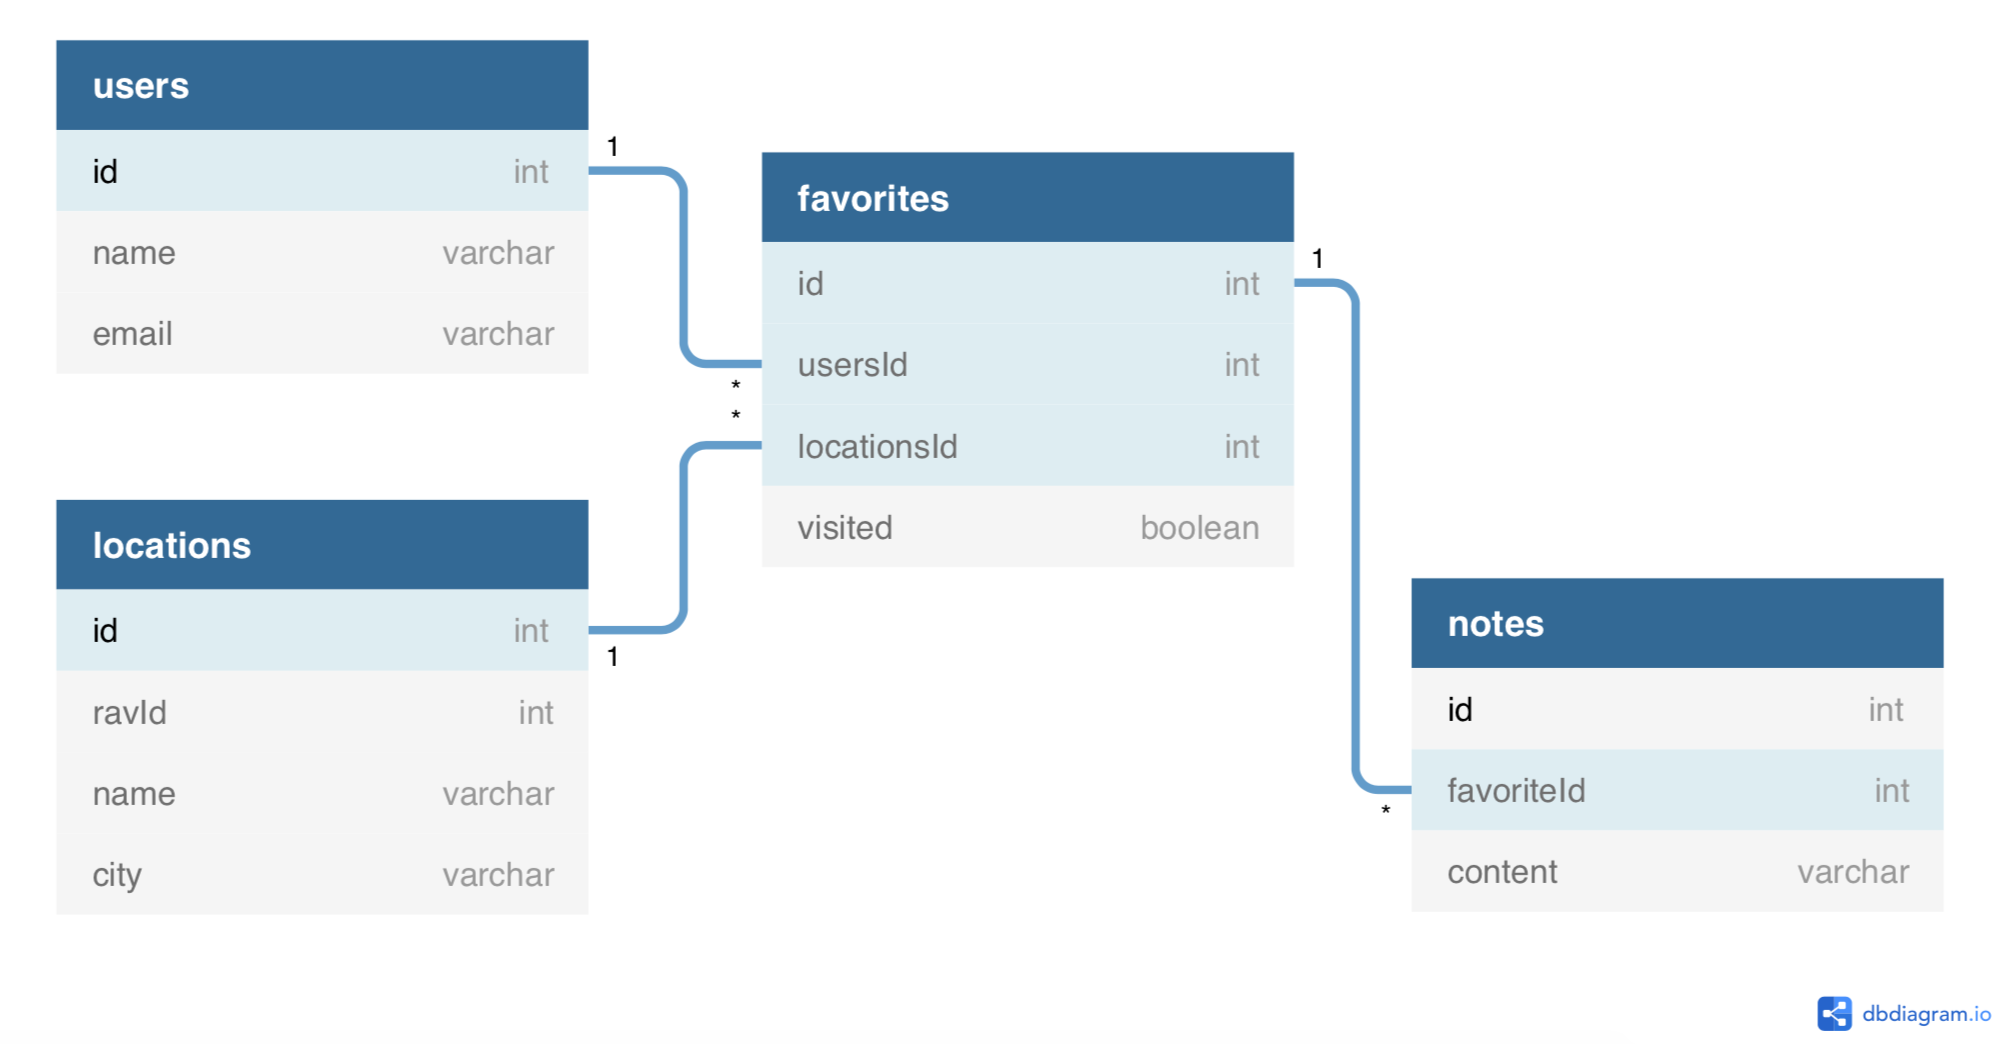
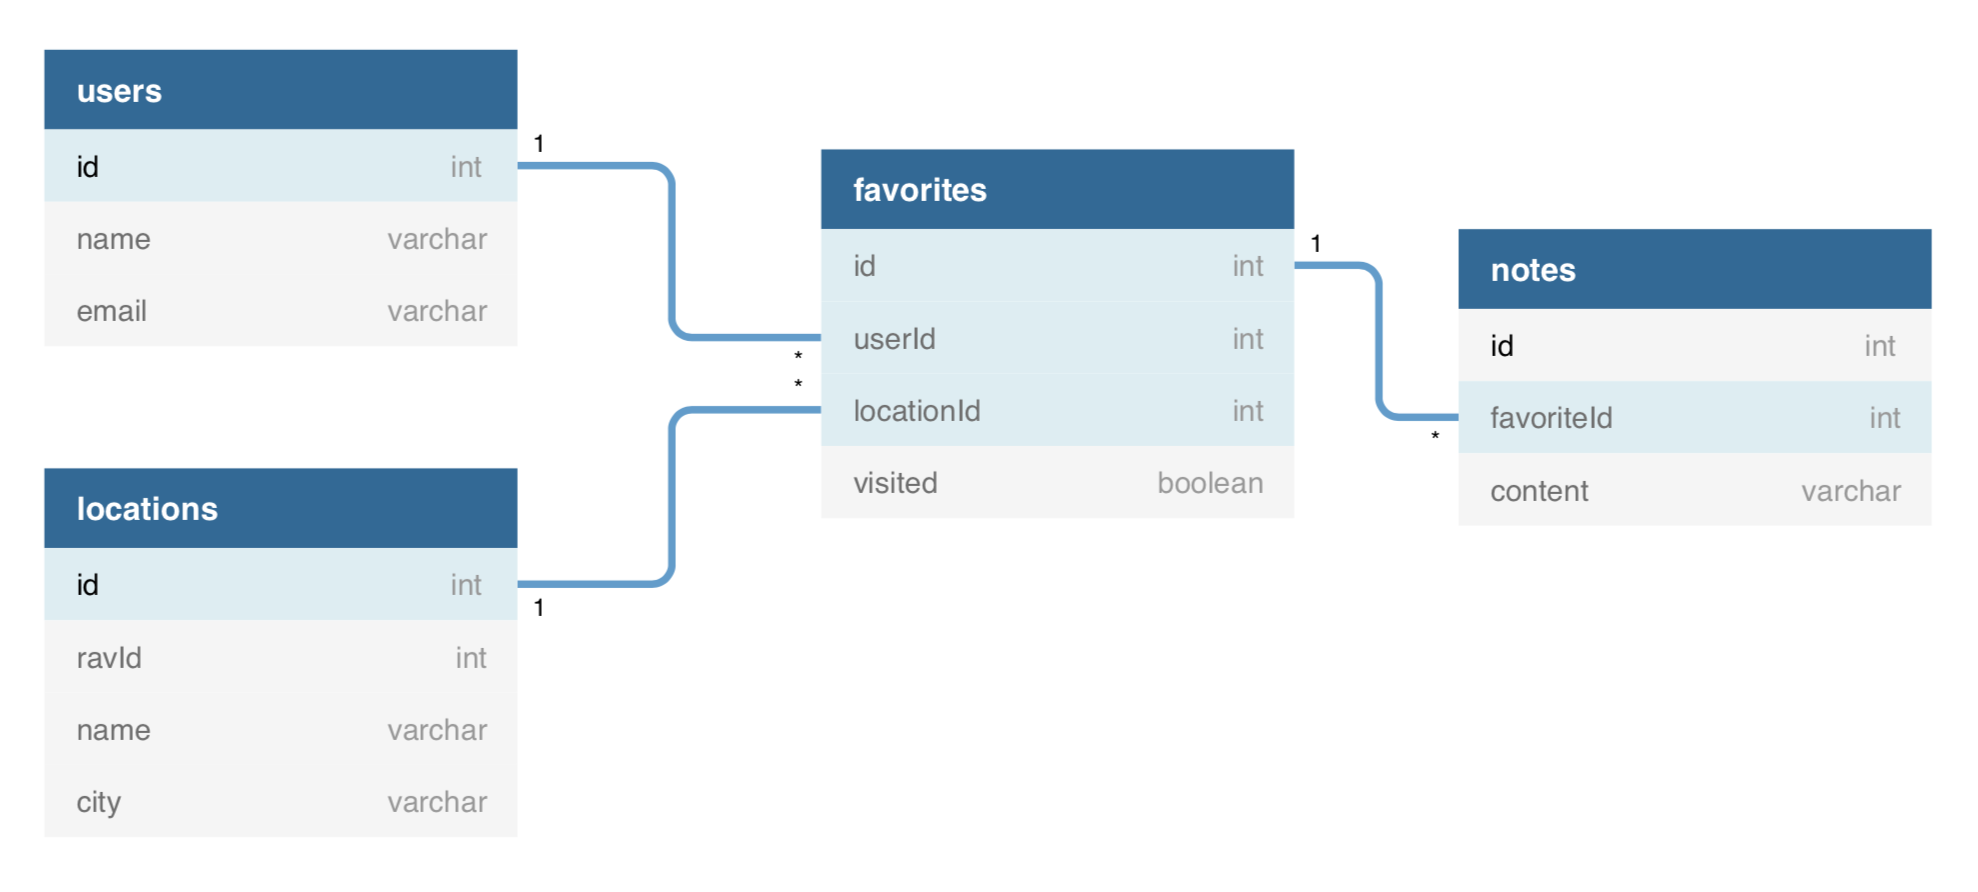
readme and a little cleaning

diff --git a/controllers/profile.js b/controllers/profile.js
@@ -73,7 +73,6 @@ router.post('/add/:id', function (req, res) {
 
 // POST /notes - add note to location record
 router.post('/:id/notes', function (req, res) {
-    //find location
     let ravId = parseInt(req.params.id);
     db.location.findOne({
         where: {ravId: ravId}

diff --git a/README.md b/README.md
@@ -62,11 +62,48 @@ I planned these out after I knew what my models and API data would be.
 | PUT   | `/profile/:id/update` | `mark a store as "visited"` |
 | DELETE| `/profile/:id` | `remove store from user's saved stores` |
 
-## Process
-More information coming soon
+## Thoughts
+
+- I definitely thought I would need more views than I did. I made more than I needed and then pared down once the routes were functional, making sure that if I changed a page I changed the route to render or redirect to the right place.
+
+- clickable points on the map was the most difficult thing to achieve. I looked through the documentation for the Mapbox API, but the parts that I needed to know ended up being in two separate examples in the documentation that needed to be cobbled together.
+
+- JOIN TABLES were not my friend (at first). I chose to link comments by the primary key from my join table (usersLocations). In Sequelize, when you get information directly from a join table it does not send the primary key, so it couldn't find any comments. The first solution was to copy the id information from the migration into the model for my usersLocations table. That allowed me to access the primary key. Then it blew up again. Sequelize turns all model names singular when referencing a primary key, so it turned every "usersLocationsId" into "usersLocationId". The easiest solution was to make a new table with a singular name, include the id information in the model, and try again. Thus, usersLocations became favorites! Suddenly, my route worked! Huzzah!
+
+```js
+router.get('/:id', function (req, res) {
+    let ravId = parseInt(req.params.id)
+    let apiUrl = 'https://api.ravelry.com/shops/' + ravId + '.json?include=schedules'
+    let headers = {
+        'Authorization': 'Basic ' + Buffer.from(`${process.env.APIUSER}:${process.env.APIPASS}`).toString('base64')
+    };
+
+    db.location.findOne({
+        where: {ravId: ravId}
+    }).then( function (location) {
+        db.favorite.findOne({
+            where: {
+                locationId: location.id,
+                userId: req.user.id
+            }
+        }).then(function (favorite) {
+            db.comment.findAll({
+                where: {
+                    favoriteId: favorite.id
+                }
+            }).then( function (comments) {
+                axios.get(apiUrl, {headers} ).then( function(response) {
+                    let shopData = response.data
+                    res.render('profile/show', { shopData, comments, favorite })
+                });
+            });
+        });
+    });
+});
+```
 
 ## Known Problems
-- depending on the notes_html coming from the API, there are occasionally broken images that are not being rendered into the page correctly.
+- depending on the notes_html coming from the API, there are occasionally broken images that are not being rendered into the page correctly. They're using relative paths to render them on Ravelry, but they won't work on another site.
 
 ## Future Additions/Edits
 - [ ] if no user is logged in, the favorite button is invisible when the search page renders
@@ -74,3 +111,4 @@ More information coming soon
 - [ ] display specific hours the store is open, if information is available
 - [ ] complete map of all stores saved by user
 - [ ] ability for user to edit their own profile (name, email, change password...)
+- [ ] review system to prioritize better stores on the list
